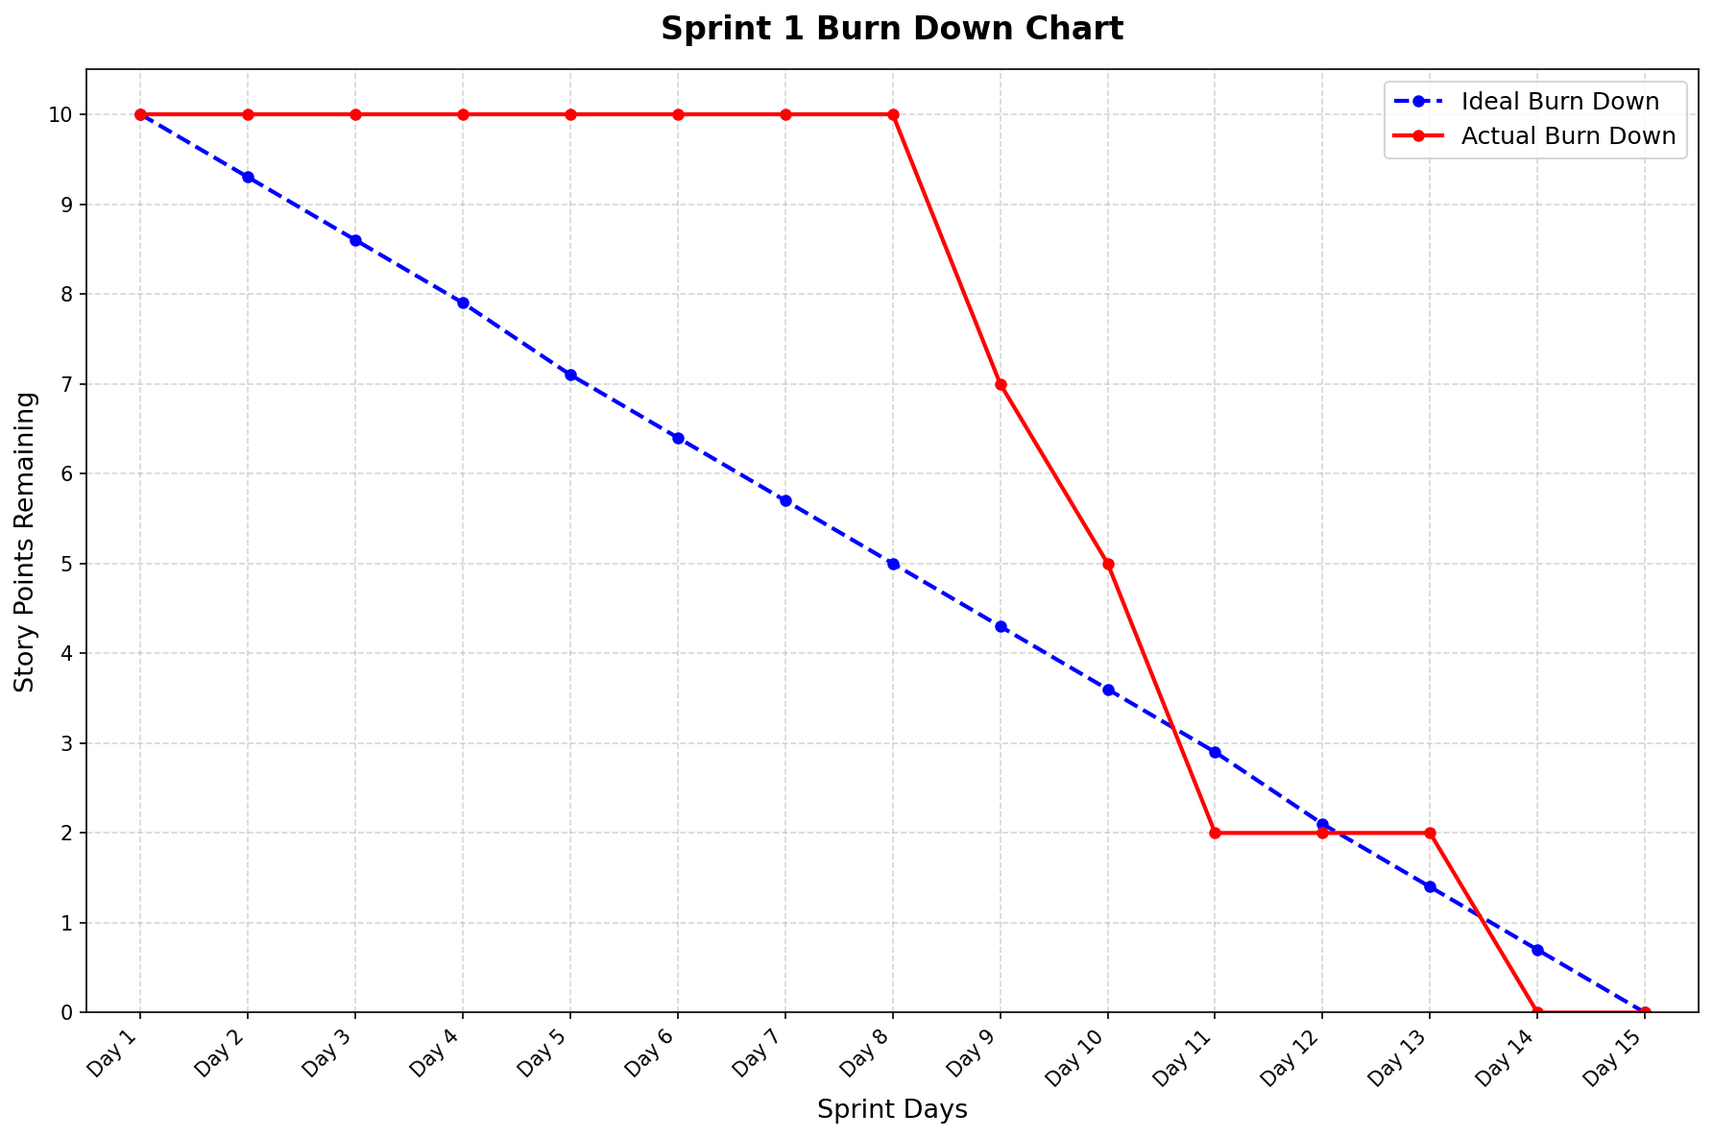
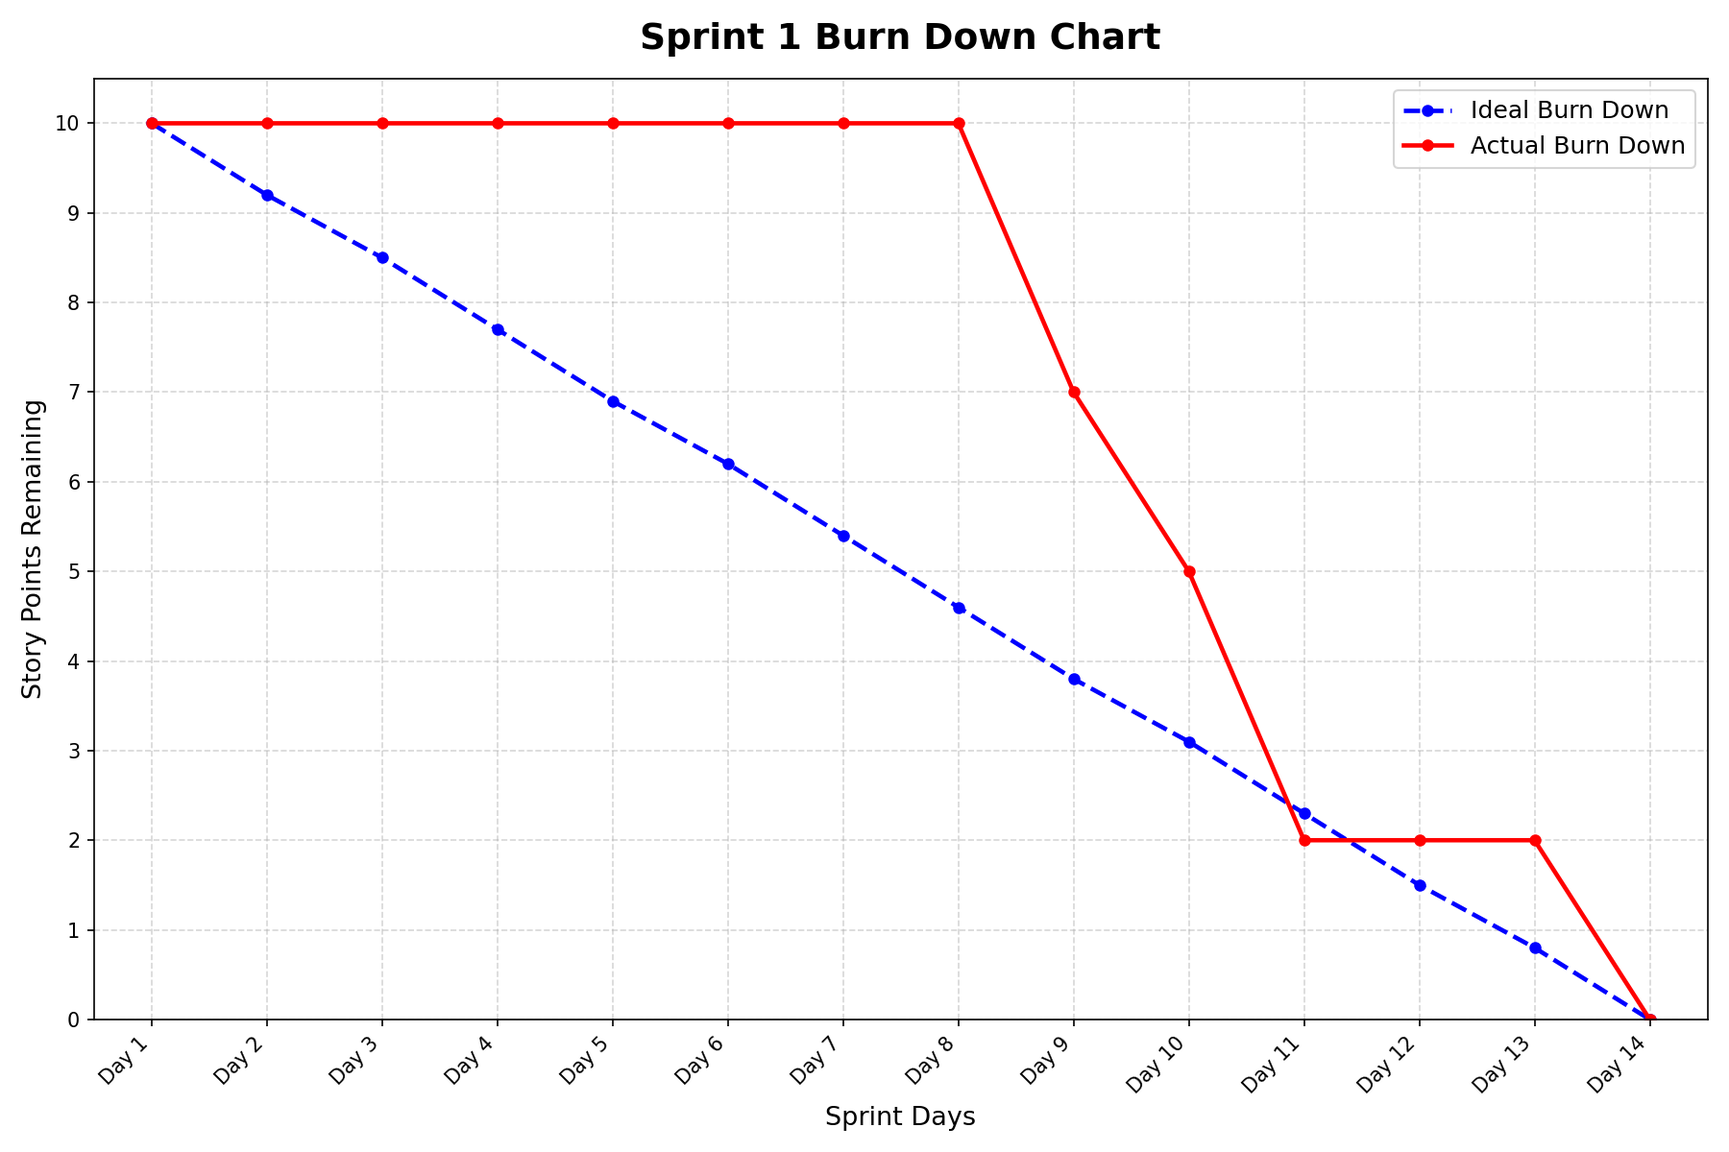
Fix Sprint 1 tracking dates and evidence links

diff --git a/Sprint_1/S1_Sprint_Backlog.md b/Sprint_1/S1_Sprint_Backlog.md
@@ -9,27 +9,27 @@
 ## Sprint Backlog for Sprint 1
 
 | User Story ID | User Story | Task ID | Task Description | Owner | Status | Est. Effort (SP) | Day 1 | Day 2 | Day 3 | Day 4 | Day 5 | Day 6 | Day 7 | Day 8 | Day 9 | Day 10 | Day 11 | Day 12 | Day 13 | Day 14 |
-|---|---|---|---|---|---|---|---|---|---|---|---|---|---|---|---|---|---|---|---|
-| US-01 | As a student or outreach planner, I want to view selected University of Melbourne and RMIT University building locations on an interactive map, so that I can identify relevant university sites for outreach coordination. | US1_T1 | Confirm the approved list of selected university building locations and required marker fields. | Manting Yu | Done | 3 | 3 | 3 | 3 | 3 | 3 | 3 | 3 | 3 | 3 | 3 | 0 | 0 | 0 |
-| | | US1_T2 | Prepare the building location data in the format required by the map solution. | Fazheng Xu | Done | 3 | | | | | | | | | | | | | |
-| | | US1_T3 | Configure the WordPress map component to display the selected university building markers. | Fazheng Xu | Done | 3 | | | | | | | | | | | | | |
-| | | US1_T4 | Validate building marker visibility and selection behaviour against the acceptance criteria. | Conghao Lin | Done | 3 | | | | | | | | | | | | | |
-| | | US1_T5 | Monitor US-01 delivery progress across stand-ups, coordinate blocker escalation, and update sprint artefacts to reflect current status. | Manting Yu | Done | 3 | | | | | | | | | | | | | |
-| US-02 | As a student or outreach planner, I want to view selected library locations on the same interactive map, so that I can identify library sites relevant to outreach activity planning. | US2_T1 | Confirm the approved list of selected library locations and required marker details. | Manting Yu | Done | 2 | 2 | 2 | 2 | 2 | 2 | 2 | 2 | 2 | 2 | 0 | 0 | 0 | 0 |
-| | | US2_T2 | Prepare the library location data for inclusion in the shared map view. | Fazheng Xu | Done | 2 | | | | | | | | | | | | | |
-| | | US2_T3 | Add the selected library markers to the shared map and configure their interaction pattern consistently with the Sprint 1 design. | Jiajun Jiang | Done | 2 | | | | | | | | | | | | | |
-| | | US2_T4 | Validate library marker behaviour and consistency against the acceptance criteria. | Conghao Lin | Done | 2 | | | | | | | | | | | | | |
-| | | US2_T5 | Monitor US-02 delivery progress across stand-ups, support library location data review, and ensure artefact consistency between Sprint Backlog and stand-up log. | Manting Yu | Done | 2 | | | | | | | | | | | | | |
-| US-03 | As a user, I want to view basic details for a selected location from the map, so that I can quickly understand what the chosen site represents. | US3_T1 | Define the minimum detail set to display for university building and library markers. | Zihan Shi | Done | 2 | 2 | 2 | 2 | 2 | 2 | 2 | 2 | 2 | 0 | 0 | 0 | 0 | 0 |
-| | | US3_T2 | Configure the marker detail interaction and popup layout for the selected Sprint 1 locations. | Jiajun Jiang | Done | 2 | | | | | | | | | | | | | |
-| | | US3_T3 | Link prepared marker data to the basic detail display for each selected location. | Fazheng Xu | Done | 2 | | | | | | | | | | | | | |
-| | | US3_T4 | Validate the detail display for correctness, completeness, and acceptance-criteria coverage across the selected Sprint 1 locations. | Conghao Lin | Done | 2 | | | | | | | | | | | | | |
-| | | US3_T5 | Monitor US-03 delivery progress, coordinate alignment between popup detail definition and acceptance criteria, and update sprint artefacts accordingly. | Manting Yu | Done | 2 | | | | | | | | | | | | | |
-| US-04 | As a user, I want to obtain basic directions from a nominated starting point to a selected location, so that I can understand how to reach that site. | US4_T1 🟣 | Confirm the approved Sprint 1 interpretation of "basic direction finding" and the nominated starting-point input method. *(🟣 Risk mitigation task for R004: validates environment support before implementation begins.)* | Zihan Shi | Done | 3 | 3 | 3 | 3 | 3 | 3 | 3 | 3 | 3 | 3 | 3 | 3 | 3 | 0 |
-| | | US4_T2 | Configure the user interaction for selecting a destination and entering or choosing a starting point. | Jiajun Jiang | Done | 3 | | | | | | | | | | | | | |
-| | | US4_T3 | Connect the selected destination to the available basic direction response within the approved environment. | Fazheng Xu | Done | 3 | | | | | | | | | | | | | |
-| | | US4_T4 | Validate the direction workflow, including visible handling of incomplete, invalid, or unsupported inputs. | Conghao Lin | Done | 3 | | | | | | | | | | | | | |
-| | | US4_T5 | Monitor US-04 blocker status across stand-ups, coordinate escalation of the ORS API issue, and document constraint resolution in sprint artefacts. | Manting Yu | Done | 3 | | | | | | | | | | | | | |
+|---|---|---|---|---|---|---|---|---|---|---|---|---|---|---|---|---|---|---|---|---|
+| US-01 | As a student or outreach planner, I want to view selected University of Melbourne and RMIT University building locations on an interactive map, so that I can identify relevant university sites for outreach coordination. | US1_T1 | Confirm the approved list of selected university building locations and required marker fields. | Manting Yu | Done | 3 | 3 | 3 | 3 | 3 | 3 | 3 | 3 | 3 | 3 | 3 | 0 | 0 | 0 | 0 |
+|  |  | US1_T2 | Prepare the building location data in the format required by the map solution. | Fazheng Xu | Done | 3 |  |  |  |  |  |  |  |  |  |  |  |  |  |  |
+|  |  | US1_T3 | Configure the WordPress map component to display the selected university building markers. | Fazheng Xu | Done | 3 |  |  |  |  |  |  |  |  |  |  |  |  |  |  |
+|  |  | US1_T4 | Validate building marker visibility and selection behaviour against the acceptance criteria. | Conghao Lin | Done | 3 |  |  |  |  |  |  |  |  |  |  |  |  |  |  |
+|  |  | US1_T5 | Monitor US-01 delivery progress across stand-ups, coordinate blocker escalation, and update sprint artefacts to reflect current status. | Manting Yu | Done | 3 |  |  |  |  |  |  |  |  |  |  |  |  |  |  |
+| US-02 | As a student or outreach planner, I want to view selected library locations on the same interactive map, so that I can identify library sites relevant to outreach activity planning. | US2_T1 | Confirm the approved list of selected library locations and required marker details. | Manting Yu | Done | 2 | 2 | 2 | 2 | 2 | 2 | 2 | 2 | 2 | 2 | 0 | 0 | 0 | 0 | 0 |
+|  |  | US2_T2 | Prepare the library location data for inclusion in the shared map view. | Fazheng Xu | Done | 2 |  |  |  |  |  |  |  |  |  |  |  |  |  |  |
+|  |  | US2_T3 | Add the selected library markers to the shared map and configure their interaction pattern consistently with the Sprint 1 design. | Jiajun Jiang | Done | 2 |  |  |  |  |  |  |  |  |  |  |  |  |  |  |
+|  |  | US2_T4 | Validate library marker behaviour and consistency against the acceptance criteria. | Conghao Lin | Done | 2 |  |  |  |  |  |  |  |  |  |  |  |  |  |  |
+|  |  | US2_T5 | Monitor US-02 delivery progress across stand-ups, support library location data review, and ensure artefact consistency between Sprint Backlog and stand-up log. | Manting Yu | Done | 2 |  |  |  |  |  |  |  |  |  |  |  |  |  |  |
+| US-03 | As a user, I want to view basic details for a selected location from the map, so that I can quickly understand what the chosen site represents. | US3_T1 | Define the minimum detail set to display for university building and library markers. | Zihan Shi | Done | 2 | 2 | 2 | 2 | 2 | 2 | 2 | 2 | 2 | 0 | 0 | 0 | 0 | 0 | 0 |
+|  |  | US3_T2 | Configure the marker detail interaction and popup layout for the selected Sprint 1 locations. | Jiajun Jiang | Done | 2 |  |  |  |  |  |  |  |  |  |  |  |  |  |  |
+|  |  | US3_T3 | Link prepared marker data to the basic detail display for each selected location. | Fazheng Xu | Done | 2 |  |  |  |  |  |  |  |  |  |  |  |  |  |  |
+|  |  | US3_T4 | Validate the detail display for correctness, completeness, and acceptance-criteria coverage across the selected Sprint 1 locations. | Conghao Lin | Done | 2 |  |  |  |  |  |  |  |  |  |  |  |  |  |  |
+|  |  | US3_T5 | Monitor US-03 delivery progress, coordinate alignment between popup detail definition and acceptance criteria, and update sprint artefacts accordingly. | Manting Yu | Done | 2 |  |  |  |  |  |  |  |  |  |  |  |  |  |  |
+| US-04 | As a user, I want to obtain basic directions from a nominated starting point to a selected location, so that I can understand how to reach that site. | US4_T1 🟣 | Confirm the approved Sprint 1 interpretation of "basic direction finding" and the nominated starting-point input method. *(🟣 Risk mitigation task for R004: validates environment support before implementation begins.)* | Zihan Shi | Done | 3 | 3 | 3 | 3 | 3 | 3 | 3 | 3 | 3 | 3 | 3 | 3 | 3 | 3 | 0 |
+|  |  | US4_T2 | Configure the user interaction for selecting a destination and entering or choosing a starting point. | Jiajun Jiang | Done | 3 |  |  |  |  |  |  |  |  |  |  |  |  |  |  |
+|  |  | US4_T3 | Connect the selected destination to the available basic direction response within the approved environment. | Fazheng Xu | Done | 3 |  |  |  |  |  |  |  |  |  |  |  |  |  |  |
+|  |  | US4_T4 | Validate the direction workflow, including visible handling of incomplete, invalid, or unsupported inputs. | Conghao Lin | Done | 3 |  |  |  |  |  |  |  |  |  |  |  |  |  |  |
+|  |  | US4_T5 | Monitor US-04 blocker status across stand-ups, coordinate escalation of the ORS API issue, and document constraint resolution in sprint artefacts. | Manting Yu | Done | 3 |  |  |  |  |  |  |  |  |  |  |  |  |  |  |
 
 > 🟣 = Risk mitigation task folded into the user story (R004 — direction workflow environment uncertainty)
 

diff --git a/Sprint_1/S1_Burn_Down_Chart.md b/Sprint_1/S1_Burn_Down_Chart.md
@@ -6,27 +6,27 @@
 ## Sprint 1 Burn Down Chart
 
 **Sprint Duration:** 13 April 2026 – 27 April 2026  
+**Active Tracking Period:** 13 April 2026 – 26 April 2026; submission due 27 April 2026, 00:00 AEST
 **Total Story Points Committed:** 10 SP  
 **Stories:** US-01 (3 SP), US-02 (2 SP), US-03 (2 SP), US-04 (3 SP)
 ## Burn Down Data Table
 
 | Day | Date         | Ideal Remaining (SP) | Actual Remaining (SP) | Notes                                                                                                                                 |
 | --- | ------------ | -------------------- | --------------------- | ------------------------------------------------------------------------------------------------------------------------------------- |
-| 1   | Apr 13 (Sun) | 10.0                 | 10                    | Sprint start; task assignments confirmed; team began exploring WP Go Maps plugin capability within the provided WordPress environment |
-| 2   | Apr 14 (Mon) | 9.3                  | 10                    | All team members confirmed access to the provided WordPress environment via university VPN; plugin evaluation begun                   |
-| 3   | Apr 15 (Tue) | 8.6                  | 10                    | Plugin selection in progress; location list being confirmed                                                                           |
-| 4   | Apr 16 (Wed) | 7.9                  | 10                    | Stand-up 1; WP Go Maps + Leaflet confirmed as map solution                                                                            |
-| 5   | Apr 17 (Thu) | 7.1                  | 10                    | Location data preparation started; direction approach scoping begun                                                                   |
-| 6   | Apr 18 (Fri) | 6.4                  | 10                    | Stand-up 2; marker configuration started                                                                                              |
-| 7   | Apr 19 (Sat) | 5.7                  | 10                    | Weekend                                                                                                                               |
-| 8   | Apr 20 (Sun) | 5.0                  | 10                    | Weekend                                                                                                                               |
-| 9   | Apr 21 (Mon) | 4.3                  | 7                     | **US-03 Done (2 SP burned):** marker popup details implemented and validated                                                          |
-| 10  | Apr 22 (Tue) | 3.6                  | 5                     | **US-02 Done (2 SP burned):** library markers configured and validated                                                                |
-| 11  | Apr 23 (Wed) | 2.9                  | 2                     | **US-01 Done (3 SP burned):** building markers validated; Stand-up 3; US-04 ORS API blocker raised                                    |
-| 12  | Apr 24 (Thu) | 2.1                  | 2                     | US-04 blocked: ORS API key reconfiguration in progress; Code Snippets 403 identified                                                  |
-| 13  | Apr 25 (Fri) | 1.4                  | 2                     | Stand-up 4; API fixed; route color/weight/opacity fix in progress                                                                     |
-| 14  | Apr 26 (Sat) | 0.7                  | 0                     | **US-04 Done (3 SP burned):** direction workflow validated end-to-end                                                                 |
-| 15  | Apr 27 (Sun) | 0.0                  | 0                     | Stand-up 5; Sprint end and submission                                                                                                 |
+| 1   | Apr 13 (Mon) | 10.0                 | 10                    | Sprint start; task assignments confirmed; team began exploring WP Go Maps plugin capability within the provided WordPress environment |
+| 2   | Apr 14 (Tue) | 9.2                  | 10                    | All team members confirmed access to the provided WordPress environment via university VPN; plugin evaluation begun                   |
+| 3   | Apr 15 (Wed) | 8.5                  | 10                    | Plugin selection in progress; location list being confirmed                                                                           |
+| 4   | Apr 16 (Thu) | 7.7                  | 10                    | Stand-up 1; WP Go Maps + Leaflet confirmed as map solution                                                                            |
+| 5   | Apr 17 (Fri) | 6.9                  | 10                    | Location data preparation started; direction approach scoping begun                                                                   |
+| 6   | Apr 18 (Sat) | 6.2                  | 10                    | Stand-up 2; marker configuration started                                                                                              |
+| 7   | Apr 19 (Sun) | 5.4                  | 10                    | Weekend                                                                                                                               |
+| 8   | Apr 20 (Mon) | 4.6                  | 10                    | Weekend                                                                                                                               |
+| 9   | Apr 21 (Tue) | 3.8                  | 7                     | **US-03 Done (2 SP burned):** marker popup details implemented and validated                                                          |
+| 10  | Apr 22 (Wed) | 3.1                  | 5                     | **US-02 Done (2 SP burned):** library markers configured and validated                                                                |
+| 11  | Apr 23 (Thu) | 2.3                  | 2                     | **US-01 Done (3 SP burned):** building markers validated; Stand-up 3; US-04 ORS API blocker raised                                    |
+| 12  | Apr 24 (Fri) | 1.5                  | 2                     | US-04 blocked: ORS API key reconfiguration in progress; Code Snippets 403 identified                                                  |
+| 13  | Apr 25 (Sat) | 0.8                  | 2                     | Stand-up 4; API fixed; route color/weight/opacity fix in progress                                                                     |
+| 14  | Apr 26 (Sun) | 0.0                  | 0                     | **US-04 Done (3 SP burned):** direction workflow validated end-to-end; Stand-up 5; final submission preparation                      |
 
 ---
 
@@ -37,19 +37,19 @@
 *The chart above plots two lines against Sprint days on the X-axis and 
 story points remaining on the Y-axis:*
 - *The Ideal Burn Down Line runs straight from 10 SP on Day 1 to 0 SP 
-  on Day 15.*
+  on Day 14.*
 - *The Actual Burn Down Line reflects the data table above.*
 
 ## Chart Interpretation
 
-**X-Axis:** Sprint days (Day 1 = 13 April 2026 to Day 15 = 27 April 2026)
+**X-Axis:** Sprint days (Day 1 = 13 April 2026 to Day 14 = 26 April 2026)
 
 **Y-Axis:** Story points remaining (0–10)
 
 **Ideal Burn Down Line:** A straight line from 10 SP on Day 1 to 0 SP 
-on Day 15, representing a linear completion rate of approximately 
-0.67 SP per calendar day. This line was fixed at Sprint Planning and 
-was not adjusted at any pont during the sprint.
+on Day 14, representing a linear completion rate of approximately
+0.77 SP per active tracking day. This line was fixed at Sprint Planning and
+was not adjusted at any point during the sprint.
 
 **Actual Burn Down Line:** The actual line remained flat at 10 SP from 
 Day 1 through Day 8, reflecting the first-week effort spent on plugin selection and 

diff --git a/Sprint_1/S1_Daily_Stand_Up_Meeting.md b/Sprint_1/S1_Daily_Stand_Up_Meeting.md
@@ -6,7 +6,7 @@
 
 ## Stand-up Log
 
-### Stand-up 1 — Wednesday, 16 April 2026
+### Stand-up 1 — Thursday, 16 April 2026
 
 | Team Member                | Yesterday's Work                                                                                                                                                    | Today's Plan                                                                                                                    | Blockers                                                                                                                                                                        | Next Steps / Action Items                                              |
 | -------------------------- | ------------------------------------------------------------------------------------------------------------------------------------------------------------------- | ------------------------------------------------------------------------------------------------------------------------------- | ------------------------------------------------------------------------------------------------------------------------------------------------------------------------------- | ---------------------------------------------------------------------- |
@@ -18,7 +18,7 @@
 
 ---
 
-### Stand-up 2 — Friday, 18 April 2026
+### Stand-up 2 — Saturday, 18 April 2026
 
 | Team Member                | Yesterday's Work                                                                                                                        | Today's Plan                                                                                                 | Blockers                                                                                    | Next Steps / Action Items                                                  |
 | -------------------------- | --------------------------------------------------------------------------------------------------------------------------------------- | ------------------------------------------------------------------------------------------------------------ | ------------------------------------------------------------------------------------------- | -------------------------------------------------------------------------- |
@@ -30,7 +30,7 @@
 
 ---
 
-### Stand-up 3 — Wednesday, 23 April 2026
+### Stand-up 3 — Thursday, 23 April 2026
 
 | Team Member | Yesterday's Work | Today's Plan | Blockers | Next Steps / Action Items |
 |---|---|---|---|---|
@@ -42,7 +42,7 @@
 
 ---
 
-### Stand-up 4 — Friday, 25 April 2026
+### Stand-up 4 — Saturday, 25 April 2026
 
 | Team Member | Yesterday's Work | Today's Plan | Blockers | Next Steps / Action Items |
 |---|---|---|---|---|
@@ -54,7 +54,7 @@
 
 ---
 
-### Stand-up 5 — Sunday, 27 April 2026
+### Stand-up 5 — Sunday, 26 April 2026
 
 | Team Member | Yesterday's Work | Today's Plan | Blockers | Next Steps / Action Items |
 |---|---|---|---|---|

diff --git a/Sprint_1/S1_Sprint_Showcase.md b/Sprint_1/S1_Sprint_Showcase.md
@@ -69,7 +69,7 @@ The map supports zoom and drag. All three required location categories
 (University of Melbourne, RMIT University, City of Melbourne) are 
 represented. Markers remain visible and selectable when the user 
 pans or zooms within the map view.
-![Map Overview](../etc/S1_Map_Overview.png)
+![Map Overview](etc/S1_Map_Overview.png)
 ### Step 3 — Click a marker to view basic location details (US-03)
 
 Click any marker. The popup displays:
@@ -82,9 +82,9 @@ Click any marker. The popup displays:
 Clicking a different marker closes the current popup and displays 
 the details for the newly selected location.
 
-![Marker Popup Building](../etc/S1_Marker_Popup_Building.png)
+![Marker Popup Building](etc/S1_Marker_Popup_Building.png)
 
-![Marker Popup Library](../etc/S1_Marker_Popup_Library.png)
+![Marker Popup Library](etc/S1_Marker_Popup_Library.png)
 
 ### Step 4 — Use Get Directions from a marker popup (US-04)
 
@@ -93,8 +93,6 @@ field is automatically populated from the selected marker. The
 default starting point (Melbourne Central Station) is pre-filled 
 in the From field. Click **Go**. OpenRouteService calculates the 
 route and draws it on the map in red (#e11d48, weight 8, opacity 1).
-
-![Directions Route](../etc/S1_Directions_Route.png)
 
 ### Step 5 — Confirm controlled failure behaviour (US-04)
 
